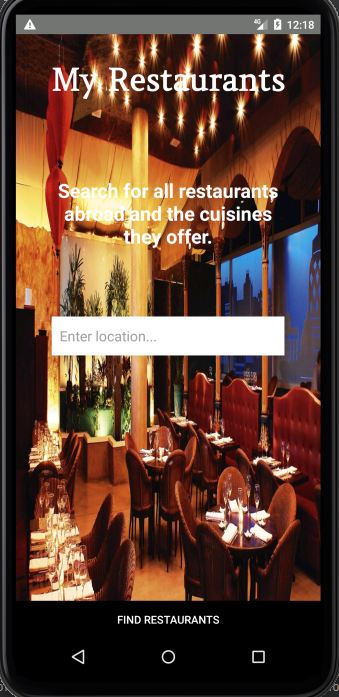
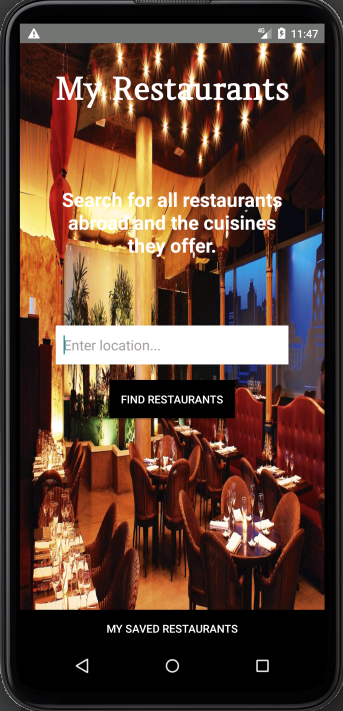
Update README.md

diff --git a/app/src/main/java/ui/RestaurantDetailFragment.java b/app/src/main/java/ui/RestaurantDetailFragment.java
@@ -52,12 +52,12 @@ public class RestaurantDetailFragment extends Fragment implements View.OnClickLi
     public static RestaurantDetailFragment newInstance(Business restaurant) {
         RestaurantDetailFragment restaurantDetailFragment = new RestaurantDetailFragment();
         Bundle args = new Bundle();
-        args.putParcelable("restaurant", Parcels.wrap(restaurant));
-        restaurantDetailFragment.setArguments(args);
-        return restaurantDetailFragment;
-    }
+            args.putParcelable("restaurant", Parcels.wrap(restaurant));
+            restaurantDetailFragment.setArguments(args);
+            return restaurantDetailFragment;
+        }
 
-    @Override
+        @Override
     public void onCreate(@Nullable Bundle savedInstanceState) {
         super.onCreate(savedInstanceState);
         assert getArguments() != null;

diff --git a/README.md b/README.md
@@ -6,6 +6,7 @@
 ![App image](app/src/Assets/README/s2.png)
 ![App image](app/src/Assets/README/s3.png)
 ![App image](app/src/Assets/README/s4.png)
+![App image](app/src/Assets/README/s5.png)
 
 ## Setup/Installation Requirements
 * Fork/Clone the repository
